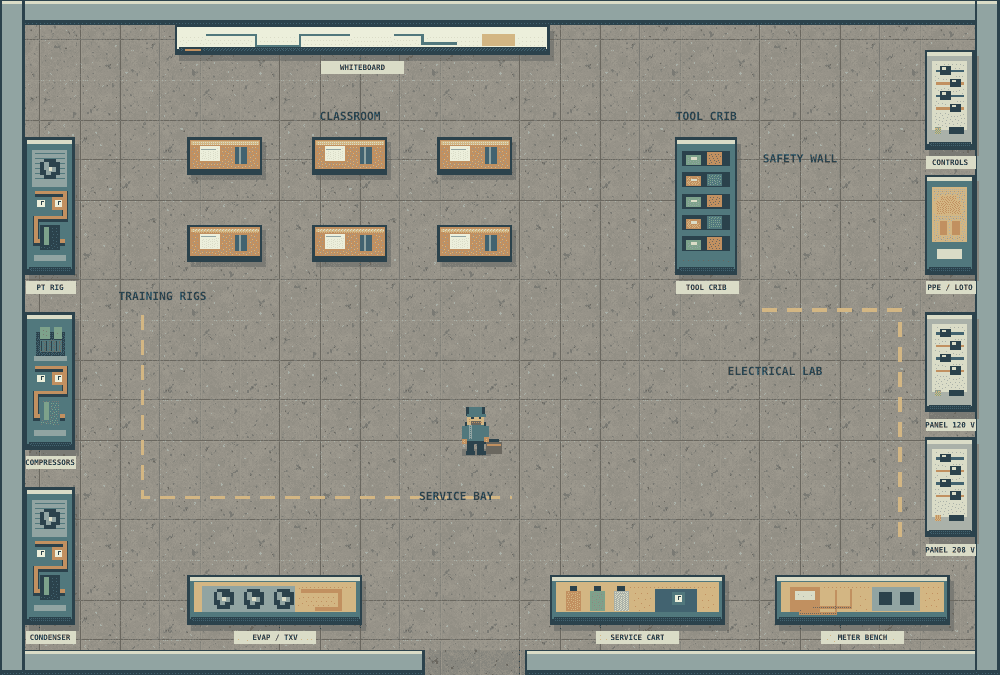
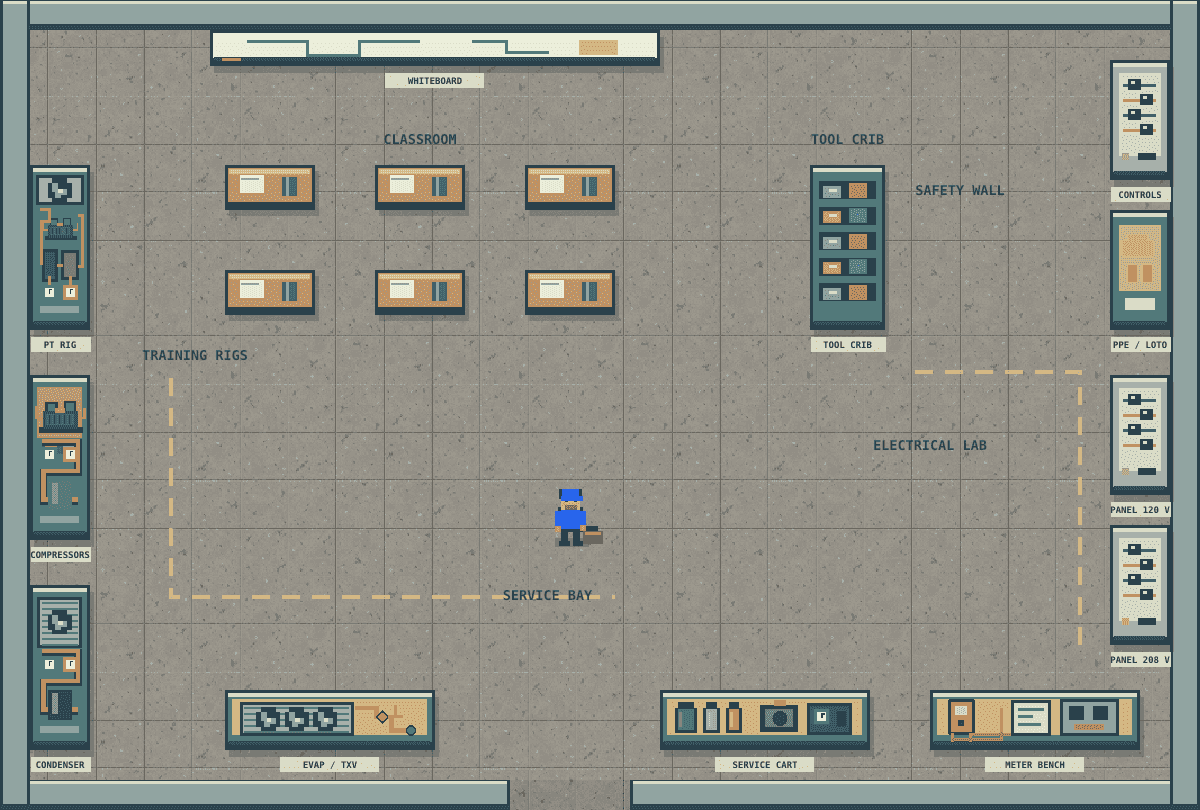
Make classroom workstations equipment-specific

diff --git a/components/game/PixelClassroom.tsx b/components/game/PixelClassroom.tsx
@@ -17,6 +17,48 @@ function Gauge({ x, y, red = false }: { x: number; y: number; red?: boolean }) {
   </g>
 }
 
+function SemiHermeticCompressor({ x, y, scale = 1 }: { x: number; y: number; scale?: number }) {
+  return <g transform={`translate(${x} ${y}) scale(${scale})`}>
+    <rect x="-17" y="9" width="36" height="5" fill="#26383c" />
+    <rect x="-14" y="-4" width="29" height="15" fill="#315e50" />
+    <path d="M-11 -4V-10H-3V-4M4 -4V-11H12V-4" fill="#56896b" stroke={ink} strokeWidth="2" />
+    <rect x="-11" y="-1" width="22" height="9" fill="#47765e" />
+    {[0, 1, 2, 3, 4].map(i => <rect key={i} x={-9 + i * 4} y="0" width="1" height="7" fill="#234b43" />)}
+    <rect x="-4" y="-6" width="8" height="4" fill="#d0a84f" />
+    <path d="M-14 2H-19V-8M15 2H20V-6" fill="none" stroke={copper} strokeWidth="2" />
+  </g>
+}
+
+function FinnedCoil({ x, y, w, h, fans = 2 }: { x: number; y: number; w: number; h: number; fans?: number }) {
+  return <g transform={`translate(${x} ${y})`}>
+    <rect width={w} height={h} fill={ink} />
+    <rect x="2" y="2" width={w - 4} height={h - 4} fill="#9db0af" />
+    {Array.from({ length: Math.max(3, Math.floor(h / 4)) }).map((_, i) =>
+      <path key={i} d={`M3 ${4 + i * 4}H${w - 3}`} stroke="#607982" />)}
+    {Array.from({ length: fans }).map((_, i) => <Fan key={i} x={(w / (fans + 1)) * (i + 1)} y={h / 2} />)}
+  </g>
+}
+
+function Cylinder({ x, y, color, wide = false }: { x: number; y: number; color: string; wide?: boolean }) {
+  const w = wide ? 15 : 11
+  return <g transform={`translate(${x} ${y})`}>
+    <rect x="2" width={w - 4} height="4" fill={ink} />
+    <rect width={w} y="4" height="17" fill={ink} />
+    <rect x="2" y="5" width={w - 4} height="14" fill={color} />
+    <rect x="3" y="7" width="2" height="10" fill="#fff" opacity="0.22" />
+  </g>
+}
+
+function DigitalMeter({ x, y }: { x: number; y: number }) {
+  return <g transform={`translate(${x} ${y})`}>
+    <rect width="18" height="24" rx="2" fill={ink} />
+    <rect x="2" y="2" width="14" height="20" fill="#e3ad32" />
+    <rect x="5" y="5" width="8" height="6" fill="#bfd7c5" />
+    <rect x="7" y="14" width="4" height="4" fill="#354752" />
+    <path d="M3 23V29M15 23V29" stroke="#b9534b" strokeWidth="2" />
+  </g>
+}
+
 function Station({ node }: { node: EquipmentNode }) {
   const { x, y, w, h } = node.rect
   const horizontal = w > h
@@ -57,36 +99,51 @@ function Station({ node }: { node: EquipmentNode }) {
     </> : horizontal ? <>
       <rect x="5" y="6" width={w - 10} height={h - 16} fill="#d1b280" />
       {node.id === 'EVAP' ? <>
-        <rect x="12" y="9" width="74" height="21" fill={steel} />
-        <Fan x={29} y={19} /><Fan x={53} y={19} /><Fan x={77} y={19} />
-        <path d="M91 13H122V27H102" stroke={copper} strokeWidth="3" fill="none" />
+        <FinnedCoil x={10} y={8} w={76} h={23} fans={3} />
+        <path d="M87 12H101V18H111V27H126" stroke={copper} strokeWidth="3" fill="none" />
+        <path d="M101 18L105 14L109 18L105 22Z" fill="#d4a63f" stroke={ink} strokeWidth="1" />
+        <path d="M109 18H119M114 18V10" stroke="#d4a63f" strokeWidth="2" />
+        <circle cx="124" cy="27" r="3" fill="#4a8193" stroke={ink} />
       </> : node.id === 'SERV' ? <>
-        {[0, 1, 2].map(i => <g key={i}><rect x={13 + i * 19} y="13" width="12" height="16" fill={['#d4a94f', '#819c89', '#b5c3bc'][i]} /><rect x={16 + i * 19} y="9" width="6" height="4" fill={ink} /></g>)}
-        <rect x="84" y="11" width="34" height="19" fill="#3b6277" /><Gauge x={103} y={19} />
+        <Cylinder x={10} y={8} color="#478264" wide /><Cylinder x={29} y={8} color="#a6a9a0" /><Cylinder x={44} y={8} color="#d2a838" />
+        <rect x="67" y="10" width="25" height="18" fill={ink} /><rect x="70" y="13" width="19" height="12" fill="#6d8588" />
+        <circle cx="80" cy="19" r="5" fill="#33464d" /><rect x="76" y="7" width="8" height="4" fill="#d3a14a" />
+        <rect x="99" y="10" width="28" height="19" fill="#31536a" stroke={ink} strokeWidth="2" />
+        <Gauge x={108} y={18} /><rect x="118" y="14" width="6" height="10" fill="#182f3a" />
       </> : <>
-        <rect x="12" y="10" width="24" height="20" fill="#d99c45" /><rect x="16" y="13" width="16" height="7" fill="#cee0ba" />
-        <path d="M20 26V31H49V12M30 26H61V11" fill="none" stroke="#b25442" strokeWidth="2" />
-        <rect x="78" y="10" width="38" height="19" fill={steel} />
-        <rect x="83" y="14" width="11" height="10" fill={ink} />
-        <rect x="100" y="14" width="11" height="10" fill={ink} />
+        <DigitalMeter x={12} y={6} />
+        <path d="M15 30V33H48V12M27 30H61V10" fill="none" stroke="#b25442" strokeWidth="2" />
+        <rect x="55" y="8" width="25" height="22" fill="#d6ded2" stroke={ink} strokeWidth="2" />
+        <path d="M59 13H76M59 18H69M59 23H74" stroke="#467083" strokeWidth="2" />
+        <rect x="88" y="7" width="37" height="23" fill={steel} stroke={ink} strokeWidth="2" />
+        <rect x="93" y="11" width="10" height="9" fill="#273d48" /><rect x="109" y="11" width="10" height="9" fill="#273d48" />
+        <rect x="96" y="23" width="20" height="4" fill="#b85c4b" />
       </>}
     </> : <>
-      {node.id === 'COMP' ? <>
-        <rect x="9" y="16" width="23" height="21" fill="#355d50" />
-        <rect x="12" y="12" width="8" height="9" fill="#78a17e" /><rect x="23" y="12" width="7" height="9" fill="#78a17e" />
-        <rect x="12" y="22" width="18" height="10" fill="#527c63" />
-        {[0, 1, 2, 3].map(i => <rect key={i} x={13 + i * 4} y="23" width="1" height="8" fill="#264b45" />)}
-        <rect x="7" y="35" width="27" height="4" fill={steel} />
+      {node.id === 'RIG' ? <>
+        <rect x="5" y="8" width="30" height="18" fill="#a8b6b2" stroke={ink} strokeWidth="2" />
+        <Fan x={20} y={17} />
+        <SemiHermeticCompressor x={20} y={42} scale={0.58} />
+        <rect x="9" y="57" width="9" height="20" fill="#345465" stroke={ink} strokeWidth="2" />
+        <rect x="22" y="58" width="10" height="18" fill="#777f7b" stroke={ink} strokeWidth="2" />
+        <path d="M7 30H13V38H8V66H9M32 34H35V68H32M18 67H22" stroke={copper} strokeWidth="2" fill="none" />
+        <Gauge x={13} y={85} /><Gauge x={27} y={85} red />
+        <path d="M13 80V74M27 80V74" stroke={copper} strokeWidth="2" />
+      </> : node.id === 'COMP' ? <>
+        <rect x="5" y="8" width="30" height="34" fill="#b7a06f" />
+        <SemiHermeticCompressor x={20} y={27} scale={0.82} />
+        <rect x="8" y="45" width="25" height="8" fill="#456674" />
+        <rect x="10" y="47" width="8" height="4" fill="#d2a94e" /><rect x="22" y="47" width="8" height="4" fill="#8ea6a6" />
       </> : <>
-        <rect x="6" y="10" width={w - 12} height="30" fill={steel} />
-        {[0, 1, 2, 3, 4, 5].map(i => <path key={i} d={`M8 ${13 + i * 4}H${w - 8}`} stroke="#607d86" />)}
-        <Fan x={w / 2} y={25} />
+        <FinnedCoil x={5} y={8} w={w - 10} h={34} fans={1} />
       </>}
-      <path d={`M8 45H${w - 8}V65H9V84H${w - 8}`} stroke={ink} strokeWidth="5" fill="none" />
-      <path d={`M8 44H${w - 8}V64H9V83H${w - 8}`} stroke={copper} strokeWidth="3" fill="none" />
-      <rect x="12" y="70" width="16" height="20" fill={node.id === 'COMP' ? '#598576' : '#294954'} />
-      <rect x="15" y="72" width="4" height="14" fill="#7b9e8a" />
-      <Gauge x={13} y={53} /><Gauge x={27} y={53} red />
+      {node.id !== 'RIG' && <>
+        <path d={`M8 45H${w - 8}V65H9V84H${w - 8}`} stroke={ink} strokeWidth="5" fill="none" />
+        <path d={`M8 44H${w - 8}V64H9V83H${w - 8}`} stroke={copper} strokeWidth="3" fill="none" />
+        <rect x="12" y="70" width="16" height="20" fill={node.id === 'COMP' ? '#598576' : '#294954'} />
+        <rect x="15" y="72" width="4" height="14" fill="#7b9e8a" />
+        <Gauge x={13} y={53} /><Gauge x={27} y={53} red />
+      </>}
       <rect x="7" y="94" width={w - 14} height="5" fill={steel} />
     </>}
     <rect x={Math.max(1, w / 2 - 33)} y={h + 5} width={Math.min(w, 66)} height="10" fill="#e7ddbe" opacity="0.96" />
